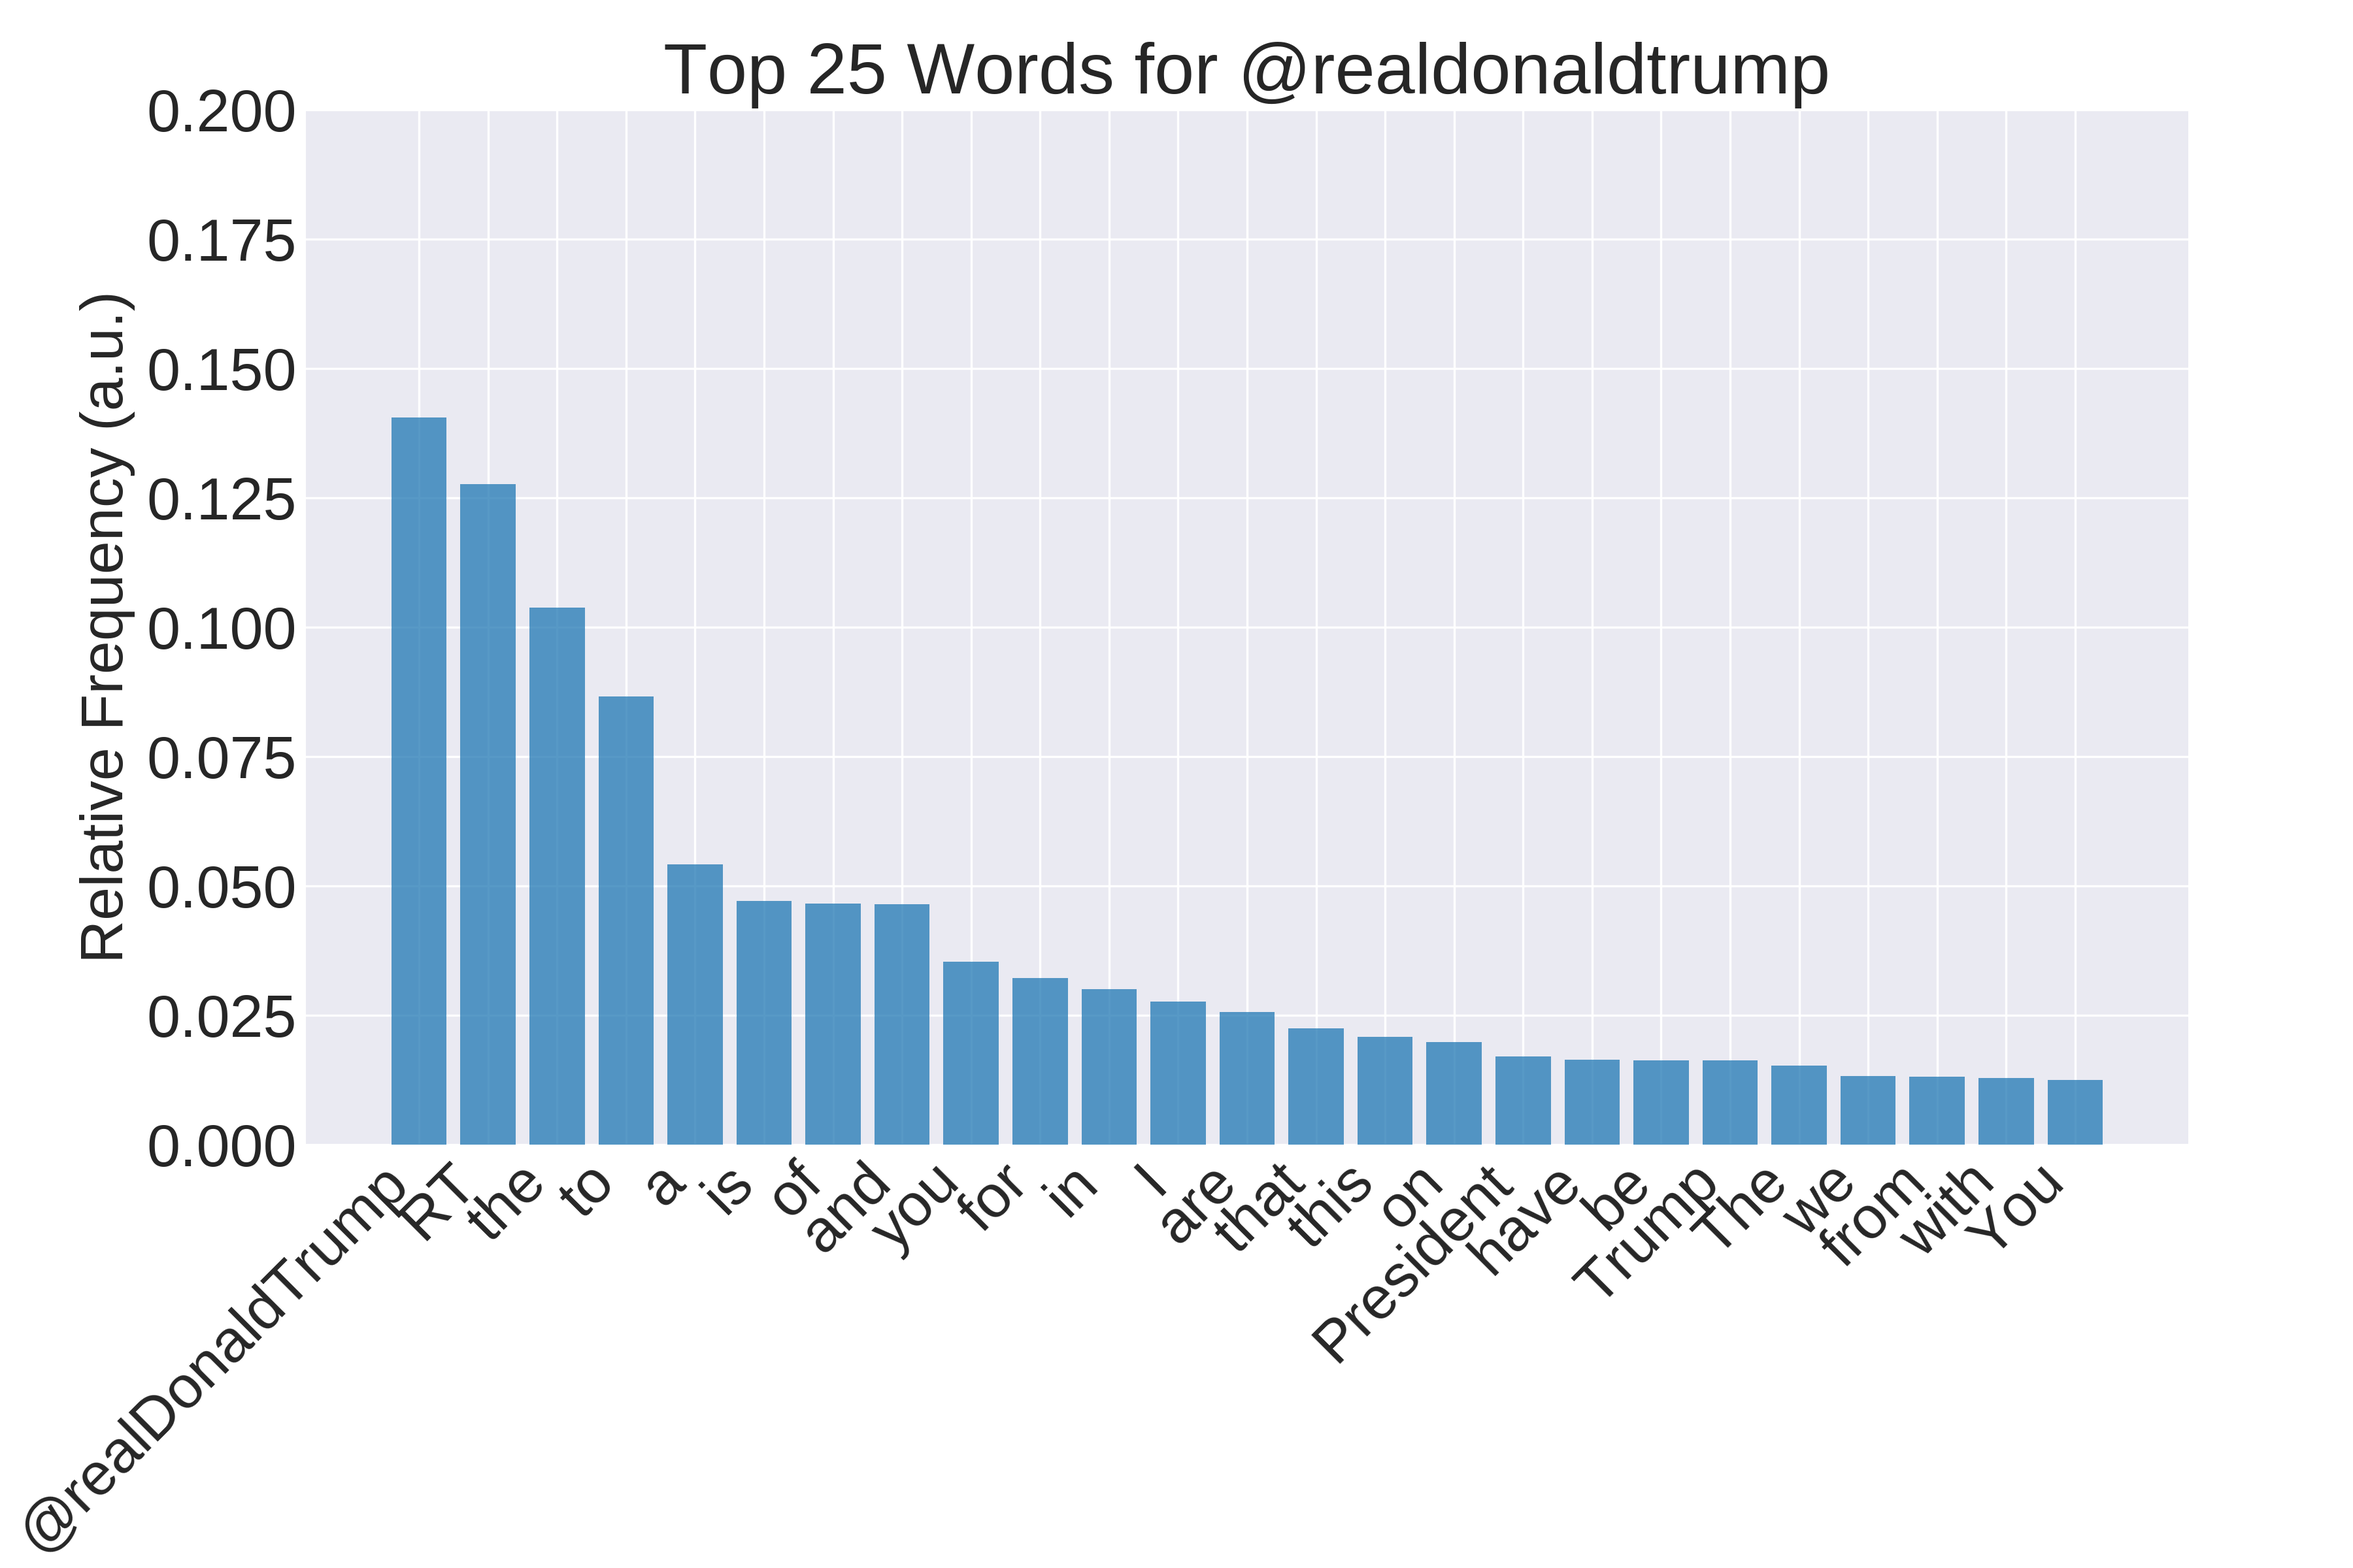
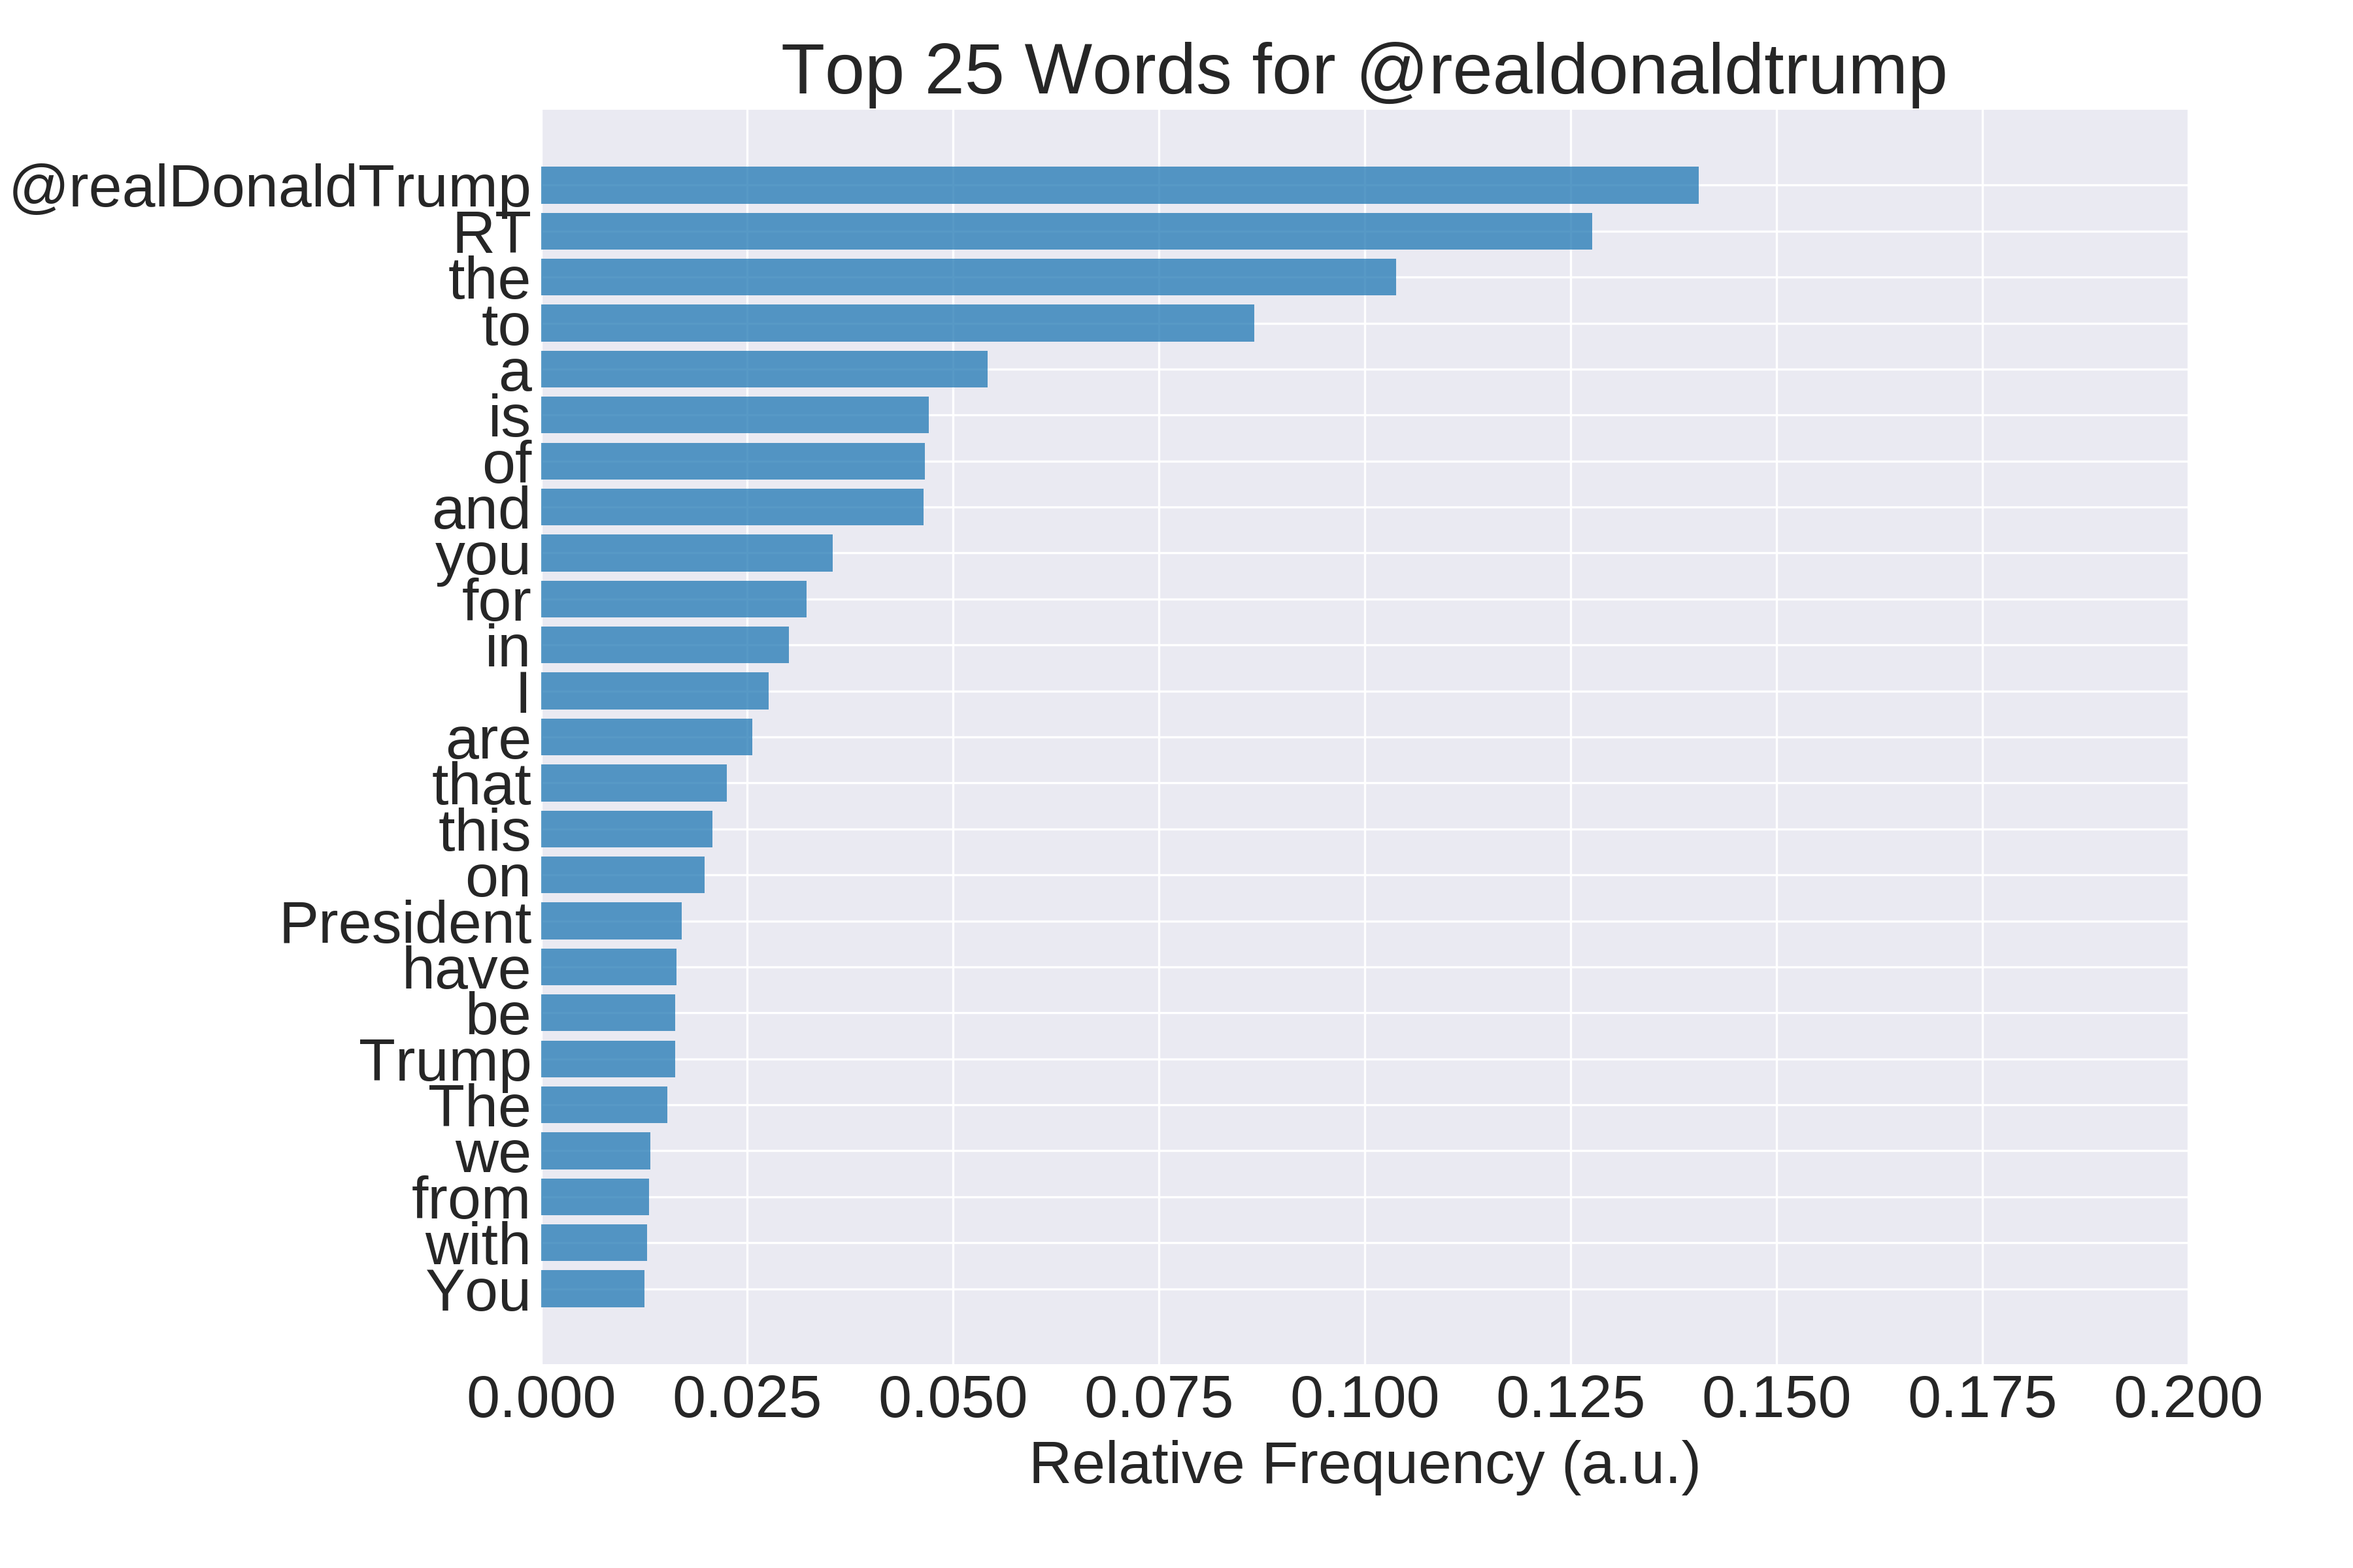
changes to size

diff --git a/src/co_data.py b/src/co_data.py
@@ -4,7 +4,7 @@ import os
 import re
 import matplotlib.pyplot as plt
 plt.style.use('seaborn-darkgrid')
-plt.rcParams.update({'font.size': 22})
+plt.rcParams.update({'font.size': 20})
 
 from sklearn.feature_extraction import stop_words
 stopwords = stop_words.ENGLISH_STOP_WORDS
@@ -94,6 +94,23 @@ def make_barchart(ax, x_label_list, y_data, y_label, title, normalize=True):
         label.set_rotation(45)
         label.set_ha('right')
 
+def make_hor_barchart(ax, set_position, x_label_list, y_data, y_label, title, normalize=True):
+    x_vals = np.arange(len(x_label_list))
+    
+    if normalize:
+        temp = np.array(y_data)
+        temp = temp/np.sum(temp)
+        y_data = list(temp)
+
+    ax.set_position(set_position)
+    ax.barh(x_vals, y_data, tick_label=x_label_list, align='center', alpha=0.75)
+    ax.set_xlabel(y_label)
+    ax.set_xlim((0,0.20))
+    ax.set_title(title)
+    # for label in ax.get_xticklabels():
+    #     label.set_rotation(45)
+    #     label.set_ha('right')
+
 def make_hist(self, line_name, y_data, x_label, subplot_number=0, num_bins=50, normalize=True, cumulative=False):
     # x_vals = np.linspace(x_start_stop[0], x_start_stop[1], 1000)
 
@@ -177,18 +194,38 @@ if __name__ == '__main__':
 
     colorado_df = pd.DataFrame.from_dict(colorado_dict)
 
-    fig, ax = plt.subplots(1, figsize=(12,8))
+    fig, ax = plt.subplots(3,1, figsize=(10,22), sharex=True)
 
-    for i, treatment in enumerate(treatment_dict.values()):
-        fig, ax = plt.subplots(1, figsize=(12,8))
+    fig_pos_lst = [[0.25, 0.67, 0.7, 0.30],
+                  [0.25, 0.35, 0.7, 0.30],
+                  [0.25, 0.03, 0.7, 0.30]]
+
+    # ax = ax.flatten()
+    for i, treatment in enumerate(['@joebiden', '#COVID19', '@realdonaldtrump']):
         total_tweet_string = colorado_df[treatment].str.cat(sep=' ')
-               
         total_tweet_list = total_tweet_string.split()
         words, counts = to_count_list(total_tweet_list)
-        make_barchart(ax,words[:25],counts[:25],'Relative Frequency (a.u.)',f'Top 25 Words for {treatment}')
-        save_fig(f'{state}_{i}_raw_bar.png')
+        if i == 2:
+            make_hor_barchart(ax[i],fig_pos_lst[i],words[:25][::-1],counts[:25][::-1],'Relative Frequency (a.u.)',f'Top 25 Words for {treatment}')
+        else:
+            make_hor_barchart(ax[i],fig_pos_lst[i],words[:25][::-1],counts[:25][::-1],'',f'Top 25 Words for {treatment}')
+    save_fig(f'{state}_single_word_raw_bar.png')
 
+    fig, ax = plt.subplots(2,1, figsize=(10,22), sharex=True)
 
+    fig_pos_lst = [[0.10, 0.51, 0.8, 0.30],
+                  [0.10, 0.18, 0.8, 0.30]]
+
+    # ax = ax.flatten()
+    for i, treatment in enumerate(['@joebiden + #COVID19', '@realdonaldtrump + #COVID19']):
+        total_tweet_string = colorado_df[treatment].str.cat(sep=' ')
+        total_tweet_list = total_tweet_string.split()
+        words, counts = to_count_list(total_tweet_list)
+        if i == 1:
+            make_hor_barchart(ax[i],fig_pos_lst[i],words[:25][::-1],counts[:25][::-1],'Relative Frequency (a.u.)',f'Top 25 Words for {treatment}')
+        else:
+            make_hor_barchart(ax[i],fig_pos_lst[i],words[:25][::-1],counts[:25][::-1],'',f'Top 25 Words for {treatment}')
+    save_fig(f'{state}_multi_word_raw_bar.png')
 
     # for select_treatment in range(len(json_list)):
 

diff --git a/README.md b/README.md
@@ -179,14 +179,10 @@ Most of the fields mentioned above were gathered for future analysis; fields rel
 ## Raw Tweets
 
 <p align="center">
-    <img src="images/CO_0_raw_bar.png" width='300'/>
-    <img src="images/CO_2_raw_bar.png" width='300'/>
-    <img src="images/CO_4_raw_bar.png" width='300'/>
+    <img src="images/CO_single_word_raw_bar.png" width='300'/>
+    <img src="images/CO_multi_word_raw_bar.png" width='300'/>
 </p>
-<p align="center">
-    <img src="images/CO_1_raw_bar.png" width='300'/>
-    <img src="images/CO_3_raw_bar.png" width='300'/>
-</p>
+
 Outliine:
 
 1. Intro - done
